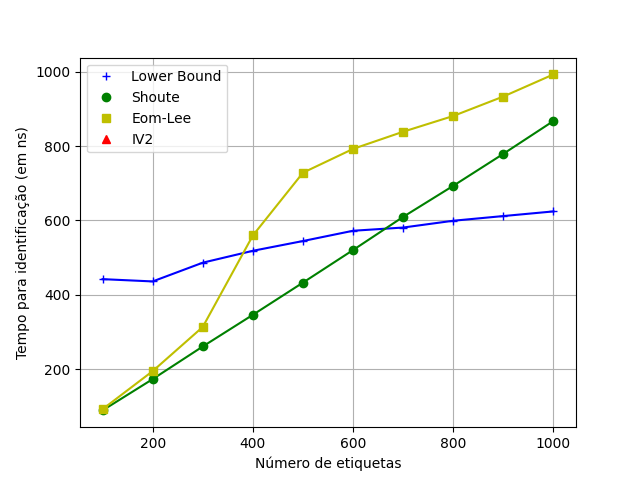
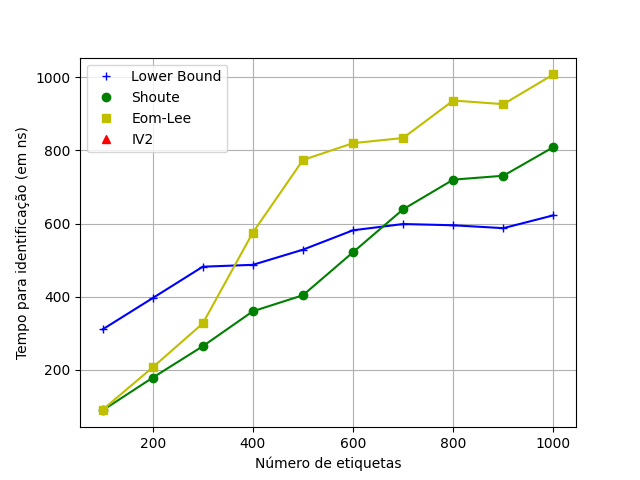
add slides

diff --git a/simulador/src/config.h b/simulador/src/config.h
@@ -21,7 +21,7 @@ public:
         max_tags = 1000;
         initial_tags = 100;
         tag_increment = 100;
-        no_power_of_2 = true;
+        no_power_of_2 = false;
         output_path = "results";
         estimators = std::vector<std::string> {"lb", "shoute", "eom-lee", "iv2"};
     }

diff --git a/simulador/src/Estimator.cpp b/simulador/src/Estimator.cpp
@@ -3,8 +3,7 @@
 #include <bits/stdc++.h>
 #include "Estimator.h"
 
-ull min (ull a, ull b) { return (a < b) ? a : b; }
-
+// Não é usado
 ull Estimator::next_frames(SlottedAlohaInfo &info) {
     return info.colisoes;
 }

diff --git a/slides.md b/slides.md
@@ -1,0 +1,72 @@
+---
+marp: true
+author: vitor, daniel
+---
+# Simulador DFSA
+
+## Integrantes
+- Vitor Maia
+- Daniel
+
+---
+
+## Detalhes de implementação
+- Foi escolhido a linguagem C++ para escrever o simulador
+- Os gráficos foram gerados em python
+- O código está disponível em <https://github.com/vitorcodesalittle/simulador-dfsa>
+
+---
+
+## Comparando o *número total de slots*
+![w:500](./plots/images/total_slots.png) ![w:500](./comparation/total_slots.png)
+
+---
+
+## Comparando o *número total de slots vazios*
+
+![w:500](./plots/images/total_empty_slots.png) ![w:500](./comparation/total_empty_slots.png)
+
+---
+
+## Comparando o *número total de slots em colisão*
+
+![w:500](./plots/images/total_collisions.png) ![w:500](./comparation/total_collision_slots.png)
+
+---
+
+## Comparando o *tempo médio de execução*
+
+![w:500](./plots/images/total_time.png)
+
+---
+
+## Comparando o *número total de slots* com frames limitados a $2^Q$
+
+![w:500](./plots/images-po2/total_slots.png) ![w:500](./comparation/total_slots.png)
+
+---
+
+## Comparando o *número total de slots vazios*  com frames limitados a $2^Q$
+
+![w:500](./plots/images-po2/total_empty_slots.png) ![w:500](./comparation/total_empty_slots.png)
+
+---
+
+## Comparando o *número total de slots em colisão* com frames limitados a $2^Q$
+
+![w:500](./plots/images-po2/total_collisions.png) ![w:500](./comparation/total_collision_slots.png)
+
+---
+
+## Comparando o *tempo médio de execução* com frames limitados a $2^Q$
+
+![w:500](./plots/images-po2/total_time.png)
+
+---
+
+## Fim
+
+#### Obrigado pela atenção
+
+
+---

diff --git a/README.md b/README.md
@@ -4,7 +4,6 @@ Esse é um simulador para avaliação de desempenho de estimadores DFSA para cad
 - CMake, python3
 
 ## Todos:
-- [ ] Checar implementação do Eom-Lee
 - [ ] Implementar IV2
 
 ## Easy run:
